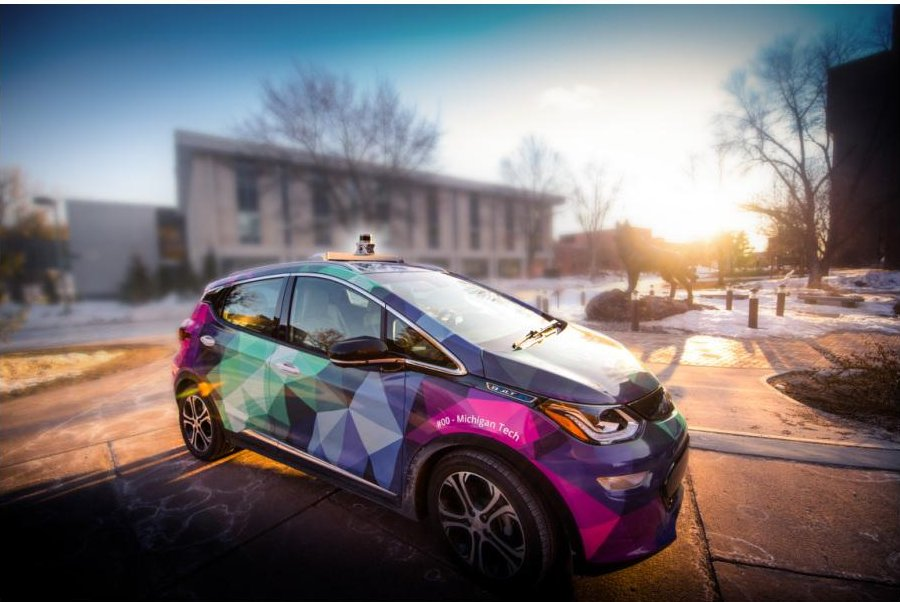
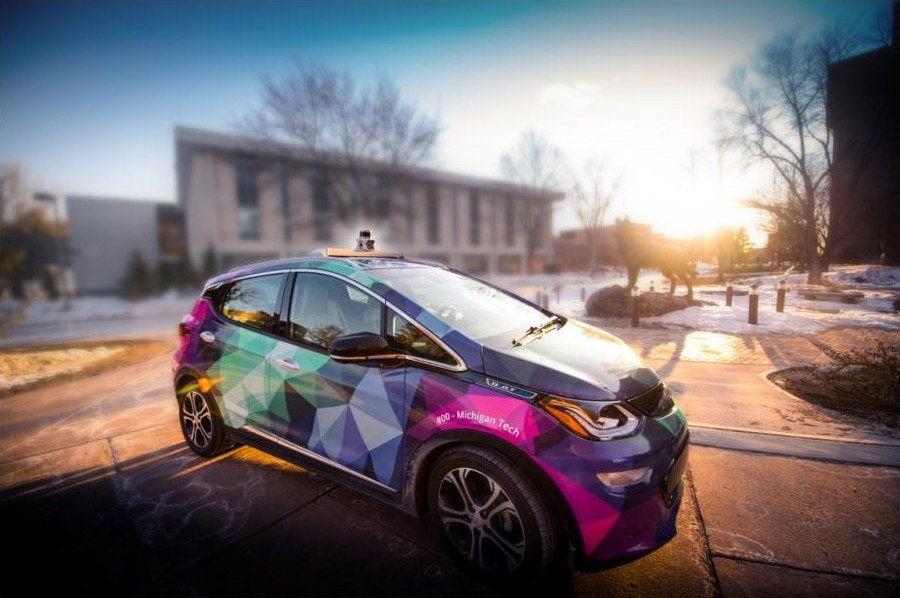
Remove white edges from the car photo and beam video in dark mode

diff --git a/index.html b/index.html
@@ -62,11 +62,13 @@
     </div>
     <div class="media">
       <figure>
-        <img src="assets/autodrive_bolt.jpg" alt="Michigan Tech's autonomous Chevrolet Bolt with a roof-mounted lidar, parked on a snowy campus plaza" width="900" height="602" loading="lazy">
+        <img src="assets/autodrive_bolt.jpg" alt="Michigan Tech's autonomous Chevrolet Bolt with a roof-mounted lidar, parked on a snowy campus plaza" width="900" height="598" loading="lazy">
         <figcaption>Michigan Tech's AutoDrive Challenge vehicle</figcaption>
       </figure>
       <figure>
-        <video data-src="assets/beam_turbulence.mp4" poster="assets/beam_turbulence.jpg" autoplay loop muted playsinline width="538" height="538" aria-label="Animated laser beam intensity pattern fluctuating as it propagates through atmospheric turbulence"></video>
+        <div class="trim">
+          <video data-src="assets/beam_turbulence.mp4" poster="assets/beam_turbulence.jpg" autoplay loop muted playsinline width="538" height="538" aria-label="Animated laser beam intensity pattern fluctuating as it propagates through atmospheric turbulence"></video>
+        </div>
         <figcaption>Laser beam propagation through turbulence</figcaption>
       </figure>
       <figure>

diff --git a/style.css b/style.css
@@ -111,6 +111,9 @@ section.band { background: var(--paper-2); }
 }
 @media (min-width: 720px) { .media img { aspect-ratio: auto; height: 100%; max-height: none; } .media figure:first-child { display: flex; flex-direction: column; } .media figure:first-child img { flex: 1; min-height: 0; } }
 .media figure:first-child img { aspect-ratio: 3 / 2; }
+/* The beam clip has a thin white frame baked in; crop a few pixels off every edge. */
+.media .trim { overflow: hidden; border-radius: var(--radius); background: #000; }
+.media .trim video { width: calc(100% + 8px); max-width: none; margin: -4px; border-radius: 0; }
 .media figcaption { color: var(--muted); font-size: .85rem; margin-top: 8px; }
 
 /* Projects */
